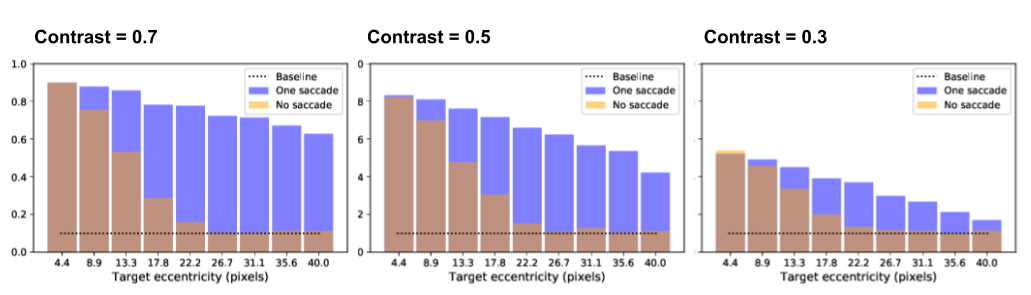
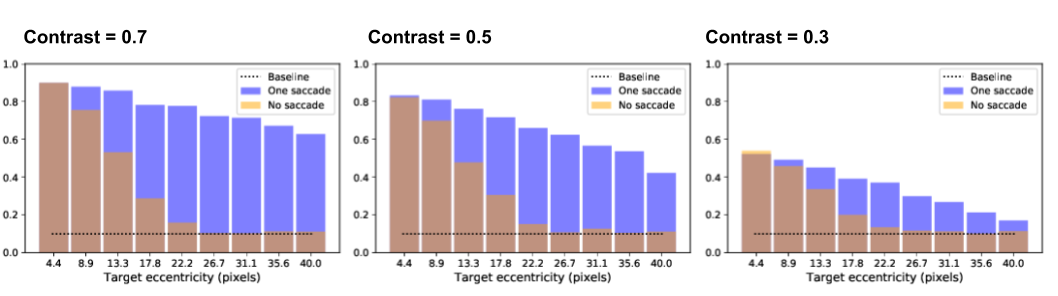
figures

diff --git a/paper/results.tex b/paper/results.tex
@@ -18,7 +18,7 @@
 	\centering{\D\includegraphics[width=.9\linewidth]{CNS-saccade-47.png}}
 	\centering{\E\includegraphics[width=.9\linewidth]{CNS-saccade-32.png}}		% \includegraphics[]{../../2019-07-15_CNS/figures/CNS-saccade-8.png} % TRUE
 	\caption{
-		{\A-- \E Examples of active vision after training}. \A-- \B are examples of classification success. \C-- \E are examples of classification failures. Digit contrast set to 0.7 (black is 0, white is 1).  From left to right :
+		{\A-- \E Active vision samples after training}. \A-- \B  classification success samples. \C-- \E classification failure samples. Digit contrast set to 0.7.  From left to right :
 		{\bf a.} The initial 128$\times$128 visual display, with blue cross giving the center of gaze.  
 		The visual input is retinotopically transformed and sent to the multi-layer neural network implementing the ``Where'' pathway. 
 		{\bf b.} Magnified reconstruction of the  visual input, as it shows off from the primary visual features through an inverse log-polar transform. 
@@ -31,9 +31,9 @@
 %=================================================================
 \subsection{Inferring the target label from active visual search}
 %=================================================================
-After training, the ``Where'' pathway is now capable to predict an accuracy map, whose maximal argument drives the eye toward a new viewpoint. There, a central snippet is extracted, that is processed through the ``What'' pathway, allowing to predict the digit's label. Examples of this simple open loop sequence are presented in figure \ref{fig:saccades}, when the digit contrast parameter is set to 0.7 and the digit eccentricity varies between 0 and 40 pixels. The presented examples correspond to strong eccentricity cases, when the target is hardly visible on the display (fig. \ref{fig:saccades}a), and almost invisible on the reconstructed input (fig. \ref{fig:saccades}b). The radial maps (fig. \ref{fig:saccades}c-d) respectively represent the actual and the predicted accuracy maps. The final focus is represented in fig. \ref{fig:saccades}e, with cases of classification success (fig. \ref{fig:saccades}A-B) and cases of classification failures (fig. \ref{fig:saccades}C-E).  
+After training, the ``Where'' pathway is now capable to predict an accuracy map, whose maximal argument drives the eye toward a new viewpoint. There, a central snippet is extracted, that is processed through the ``What'' pathway, allowing to predict the digit's label. Examples of this simple open loop sequence are presented in figure \ref{fig:saccades}, when the digits contrast parameter is set to 0.7 and the digits eccentricity varies between 0 and 40 pixels. The presented examples correspond to strong eccentricity cases, when the target is hardly visible on the display (fig. \ref{fig:saccades}a), and almost invisible on the reconstructed input (fig. \ref{fig:saccades}b). The radial maps (fig. \ref{fig:saccades}c-d) respectively represent the actual and the predicted accuracy maps. The final focus is represented in fig. \ref{fig:saccades}e, with cases of classification success (fig. \ref{fig:saccades}A-B) and cases of classification failures (fig. \ref{fig:saccades}C-E).  
 In the case of successful detection (fig. \ref{fig:saccades}A-B), the accuracy prediction is not perfect and the digit is not perfectly centered on the fovea. This ``close match'' however allows for a correct classification for the digit's pixels are fully present on the fovea. The case of fig. \ref{fig:saccades}B and \ref{fig:saccades}C
- is interesting for it shows to cases of a bimodal prediction, indicating that the network is capable of doing multiple detections at a single glance. The case of \ref{fig:saccades}C corresponds to a false detection case, with the true target detected still, though with a lower intensity. The case of fig. \ref{fig:saccades}D is a ``close match'' detection that is not precise enough to correctly center the visual target. Not every pixel of the digit is thus visible on the fovea, and the label prediction is mistaken.
+ is interesting for it shows two cases of a bimodal prediction, indicating that the network is capable of doing multiple detections at a single glance. The case of \ref{fig:saccades}C corresponds to a false detection, with the true target detected still, though with a lower intensity. The case of fig. \ref{fig:saccades}D is a ``close match'' detection that is not precise enough to correctly center the visual target. Not every pixel of the digit being visible on the fovea, the label prediction is mistaken.
 The last failure case (fig. \ref{fig:saccades}E) corresponds to a correct detection that is harmed by a wrong label prediction, only due to the ``What'' classifier inherent error rate.  
 % We observed that either the detection of the object's position was correct, thus allowing a classification proportional to the accuracy of the ``what'' pathway, either that the predicted accuracy map was wrong and generated a wrong classification with an accuracy at chance level. 
 
@@ -44,20 +44,20 @@ The last failure case (fig. \ref{fig:saccades}E) corresponds to a correct detect
 	\centering{\includegraphics[width=\linewidth]{fig-results-contrast.png}}
 	% \includegraphics[]{../../2019-07-15_CNS/figures/CNS-saccade-8.png} % TRUE
 	\caption{
-		{\bf Effect of contrast.}%
-		The active vision agent is tested for different target eccentricities (in pixels) and different contrasts to estimate a final classification rate. Orange bars: accuracy of a central classifier ('No saccade') with respect to the target's eccentricity, averaged over 1,000 trials per eccentricity scale. Blue bars: Final classification rate after one saccade predicted by the ``Where'' pathway. % \if 0\ICANN{\color{blue} TODO: show three levels of noise Low (0.5) median (1.2) high (2). TODO: compare with Accuracy max (knowing the position)}\fi
+		{\bf Effect of contrast and target eccentricity.} %
+		The active vision agent is tested for different target eccentricities (in pixels) and different contrasts to estimate a final classification rate. Orange bars: accuracy of a central classifier ('No saccade') with respect to the target's eccentricity, averaged over 1,000 trials per eccentricity scale. Blue bars: Final classification rate after one saccade, as predicted by the ``Where'' pathway. % \if 0\ICANN{\color{blue} TODO: show three levels of noise Low (0.5) median (1.2) high (2). TODO: compare with Accuracy max (knowing the position)}\fi
 		\label{fig:results}}%
 \end{figure}%
 
-By manipulating the SNR and the eccentricity, one can precisely monitor the network detection and recognition capabilities, with detection task ranging from `easy'' (small shift, strong contrast) to ``almost impossible'' (large shift, low contrast). The  digit recognition capability is systematically evaluated in Figure~\ref{fig:results} for different eccentricities and different contrasts. 
+By manipulating the SNR and the target eccentricity, one can precisely monitor the network detection and recognition capabilities, with a detection task ranging from `easy'' (small shift, strong contrast) to ``almost impossible'' (large shift, low contrast). The  digit recognition capability is systematically evaluated in Figure~\ref{fig:results} for different eccentricities and different contrasts. 
 %in simulation as the average accuracy obtained at the landing of the predicted saccade (see). For each different visual display (a different digit at a different position with a different noise clutter), a retinocentric visual input is processed (figure \ref{fig:results}-A), providing a predicted accuracy map (figure \ref{fig:results}-B) that can be compared to the actual future accuracy. Then, a saccade is carried out based on the most probable position as computed from the predicted accuracy map (figure \ref{fig:results}-C), and the final accuracy is computed from the ``what'' pathway using LeNet model.
-For 3 target contrasts conditions ranging from 0.3 to 0.7, and 10 different eccentricities ranging from 4 pixels to 40 pixels, the final accuracy is estimated on $1,000$ trials both on the initial central snippet and on the final one (after the saccade). 
-The final average accuracy is shown as blue bars on figure \ref{fig:results}. It is compared to a central classifier trying to predict the category without doing a saccade (orange bars). As expected, the accuracy decreases with the eccentricity, for the targets become less and less visible in the periphery. The decrease is rapid in the central classifier case: the accuracy drops to the baseline level
-approximately after $20$ pixels away from the center of fixation. In contrast, issuing a saccade is beneficial in most of the case, allowing to recognize digits up to the border of the image. This full covering of the image range, with a final accuracy approaching that of the central classifier, is done at a much lesser cost than would be done by a systematic scan. 
-
-{\color{green} [TODO]
-The difference between the two distributions forms an ``accuracy gain'', that quantifies the benefit of active inference with respect to a central prior, interpreted as the information gain provided by the ``Where'' pathway.}
+For 3 target contrasts conditions ranging from 0.3 to 0.7, and 10 different eccentricities ranging from 4 to 40 pixels, the final accuracy is tested on $1,000$ trials both on the initial central snippet and the final central snippet (read at the landing of the first saccade). 
+The orange bars provide the initial classification rate (without saccade) and the blue bars provide the final classification rate (after one saccade) -- see figure \ref{fig:results}.  As expected, the accuracy decreases with the eccentricity, for the targets become less and less visible in the periphery. The decrease is rapid in the central classifier case: the accuracy drops to the baseline level
+at approximately $20$ pixels away from the center of gaze. As expected, the saccade-driven accuracy has a much wider range, with a slow decrease up to the border of the visual display (40 pixels away from the center). The high contrast case (fig.~\ref{fig:results}A) shows the greatest difference, with an accuracy approaching 0.9 at the center and 0.6 at the periphery. This allows to recognize digits in one step in a majority of cases, up to the border of the image, from a very scarce peripheral information. This full covering of the 128$\times$128 image range is done at a much lesser cost than would be done by a systematic image scan, as in classic computer vision. With decreasing target contrast, a general decrease of the accuracy is observed, both at the center and at the periphery, with about 10\% decrease with a contrast of 0.5, and 40\% decrease with a contrast of 0.3. In addition, the proportion of false detections also increases with contrast decrease. At 40 pixels away from the center, the false detection rate is approximately 30\% for a contrast of 0.7, 50\% for a contrast of 0.5 and 70\% for a contrast of 0.3 (with a recognition close to the baseline in that case). The accuracy gain (difference between the initial and the final accuracy) is maximal for eccentricities ranging from 15 to 30 pixels. This optimal range reflects a peripheral region around the fovea where the target detection is possible, but not its identification. The visual agent knows \emph{where} the target is, without exactly knowing \emph{what} it is. 
+More generally, this accuracy difference, that quantifies the benefit of active inference with respect to a central prior, can be interpreted as an approximation of the information gain provided by the ``Where'' pathway\footnote{with the true label log-posterior seen as a sample of the posterior entropy -- see eq.(\ref{eq:IG}).}.
 % energy consumption
+
+%The benefit of active inference can be enhanced by doing several saccades.   
 
 As our saccade selection algorithm may implement the essential operations done in the ``Where'' pathway, the central classifier may also reflect the response of the ``What'' pathway, giving the potential category of the digit. It is therefore possible to compare the two accuracy estimates to chose the most appropriate action: it may be that the accuracy is best in the ``What'' pathway and in that case no saccade is produced. The decision frontier lies between the first and the second spatial scale, allowing to pursue micro-saccades in the close vicinity of the target (2-3 pixels), in order to achieve a perfect centering.  In the other decision case, the ''What'' accuracy can still be considered to update the ``Where'' accuracy. When extending our framework to several saccades, this would allow in particular to ``explain away" the current position of the fixation and the neighboring ones. Such heuristic gives a principled formulation of the inhibition of return mechanism which is an important aspect for modeling saccades~\citep{Itti01}. In particular, we predict that such a mechanism is dependent on the class of inputs, and would be different for searching for faces as compared to digits. 
 

diff --git a/paper/methods.tex b/paper/methods.tex
@@ -122,7 +122,7 @@ The saccadic motor output showing a similar log-polar compression than the visua
 From the information theory standpoint, each saccade comes with fresh visual information about the visual scene that can be quantified by an \emph{information gain}, namely:
 \begin{align}
 \text{IG}_\text{max} &= \max_{u'} \log p(y|u',x',x, u) - \log p(y|x, u)\\
-     &\simeq \max_{u'} \log p(y|x') - \log p(y|x)
+     &\simeq \max_{u'} \log p(y|x') - \log p(y|x)\label{eq:IG}
 \end{align}
 with the left term representing the future accuracy (after the saccade is realized) and the right term representing the current accuracy as it is obtained from the 'what' pathway. The accuracy gain may be averaged over many saccades and many initial eccentricities (so that the information gain may be close to zero when the initial $u$ is very central).
 
@@ -167,8 +167,8 @@ The network output is a vector representing the probability of detecting each of
 
 \begin{figure}[t!]%%[p!]
 	\centering{\includegraphics[width=\linewidth]{fig_what_accmap.png}}
-	\caption{\A Example input samples from the ``What'' training set, with SNR randomly set between 0.3 and 0.7, and targets randomly shifted using a Gaussian bivariate spatial offset with a standard deviation of 15 pixels.
-		\B $55 \times 55$ shift-dependent accuracy map, measured for different target eccentricities on the test set after training.  
+	\caption{\A Input samples from the ``What'' training set, with  randomly shifted targets using a Gaussian bivariate spatial offset with a standard deviation of 15 pixels. The target contrast is randomly set between 0.3 and 0.7.
+	\B $55 \times 55$ shift-dependent accuracy map, measured for different target eccentricities on the test set after training.  
 	}
 \label{fig:accuracy}
 \end{figure}
